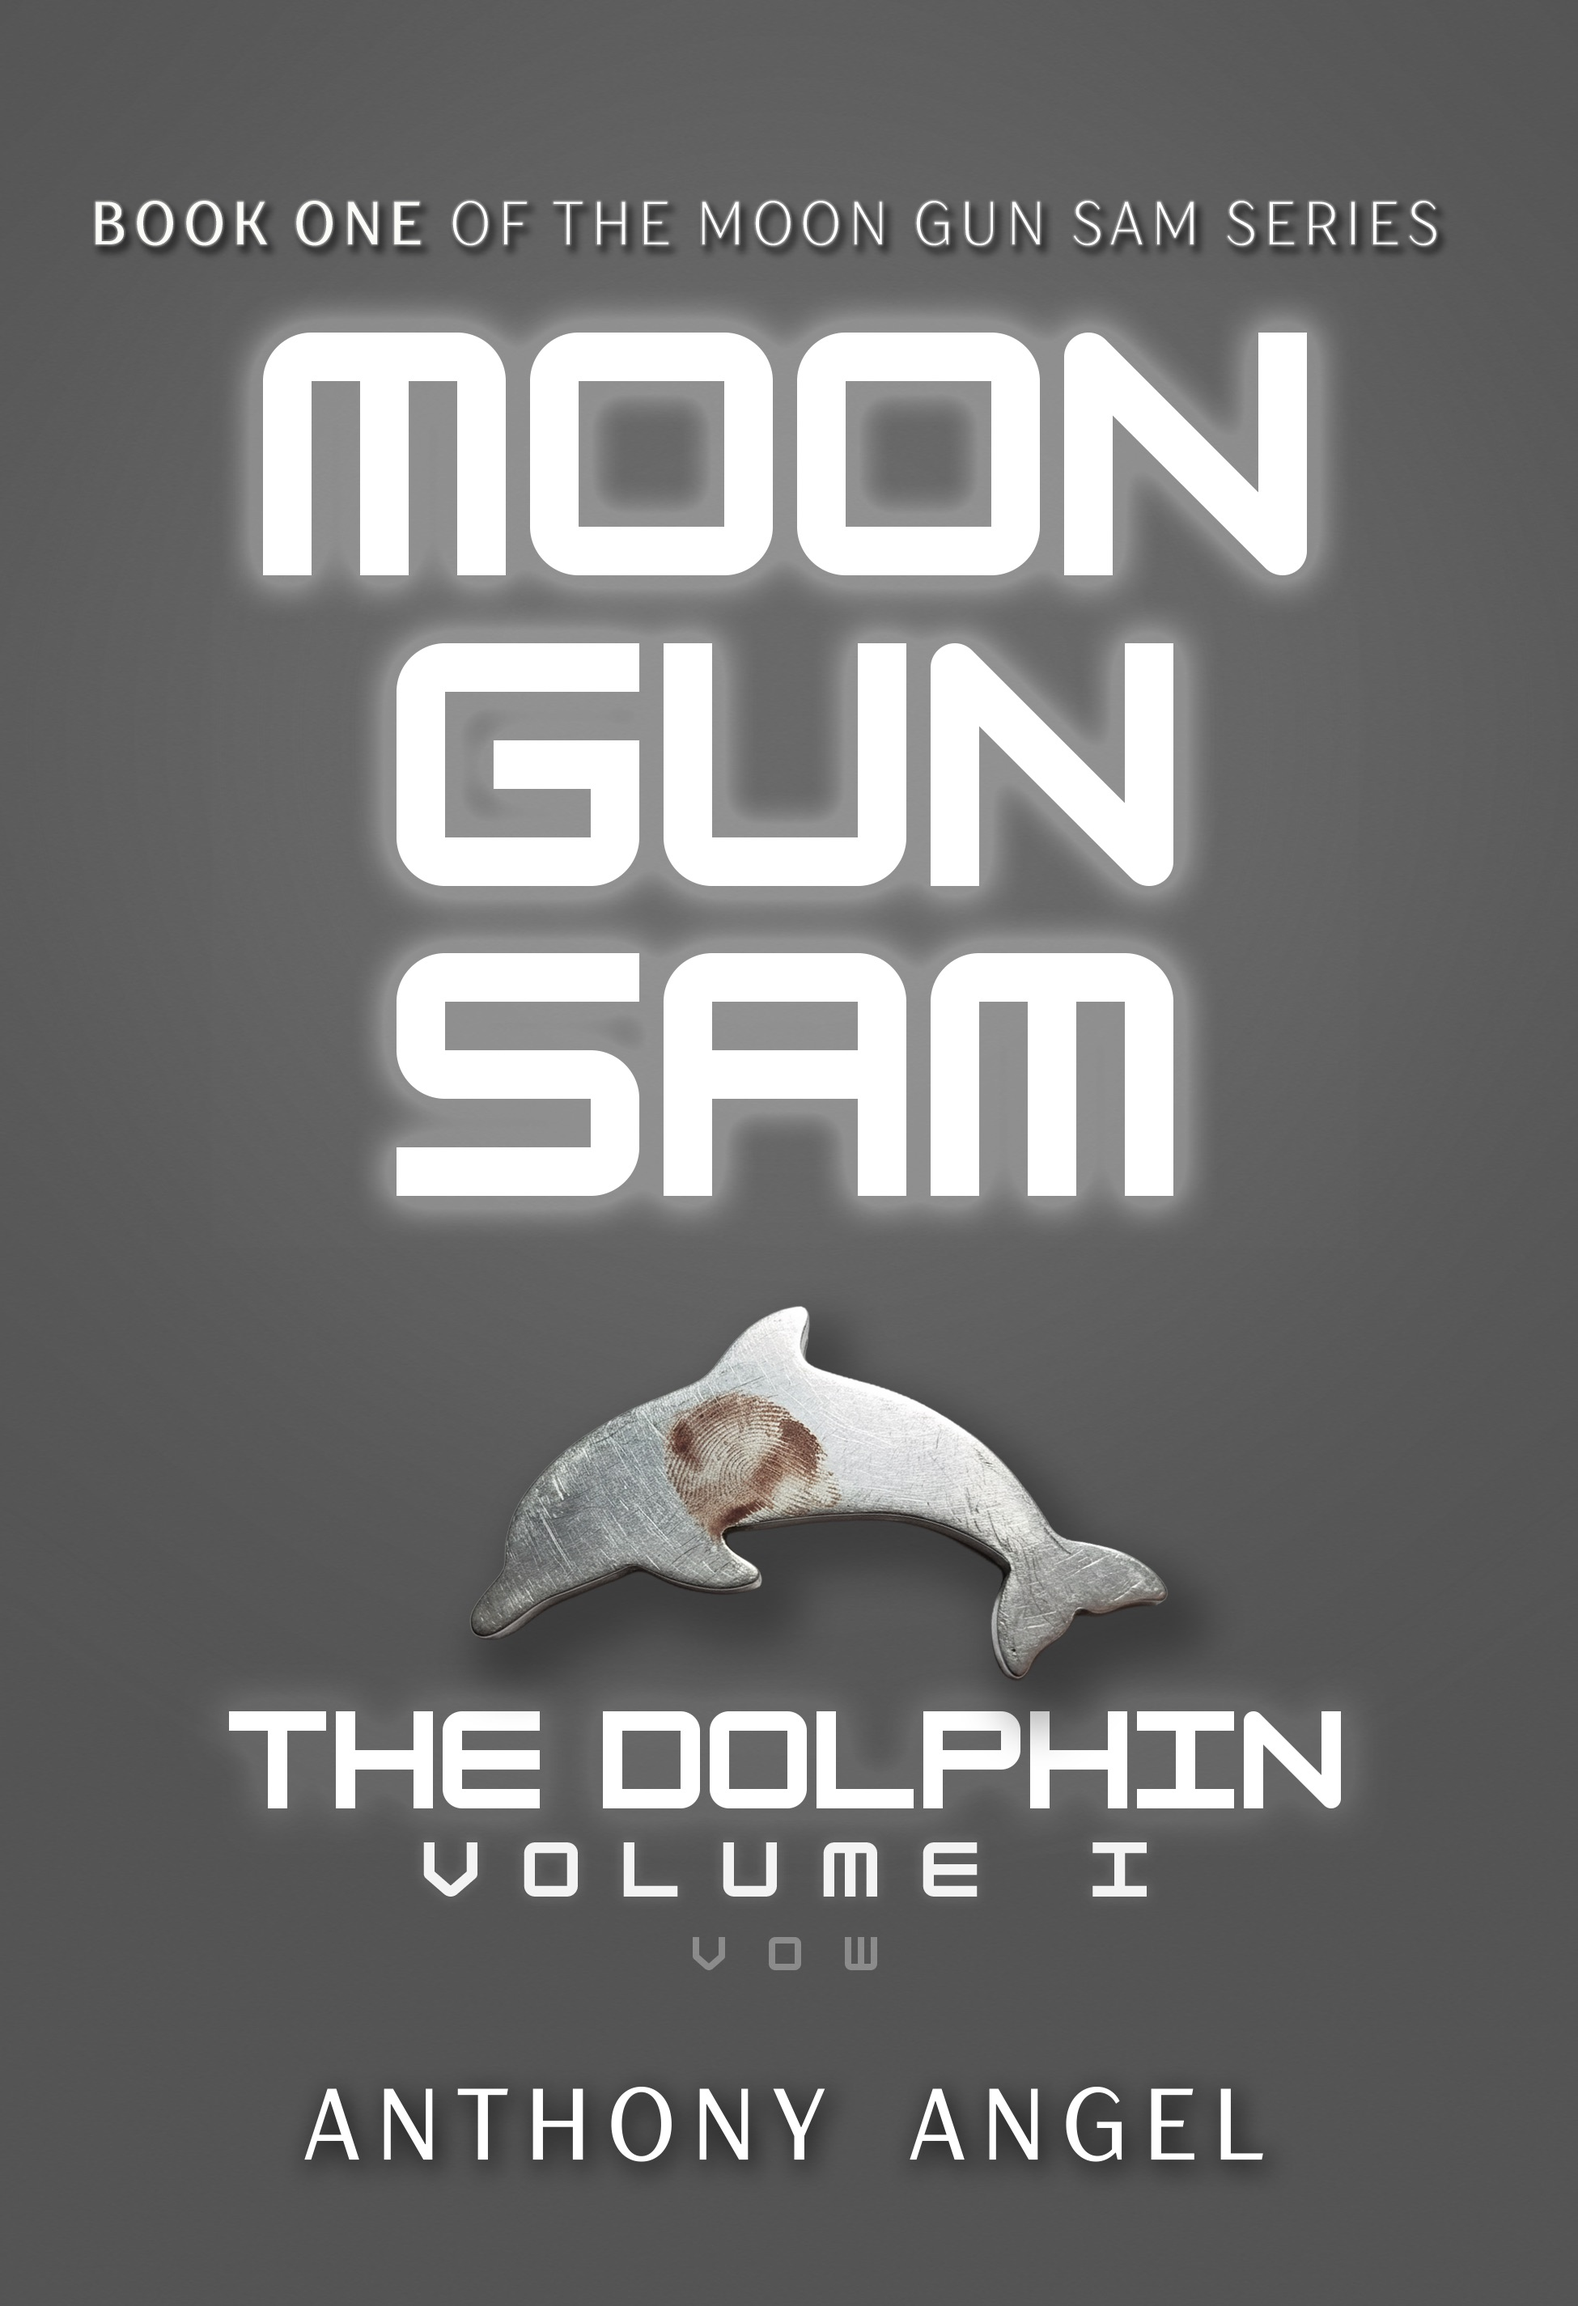
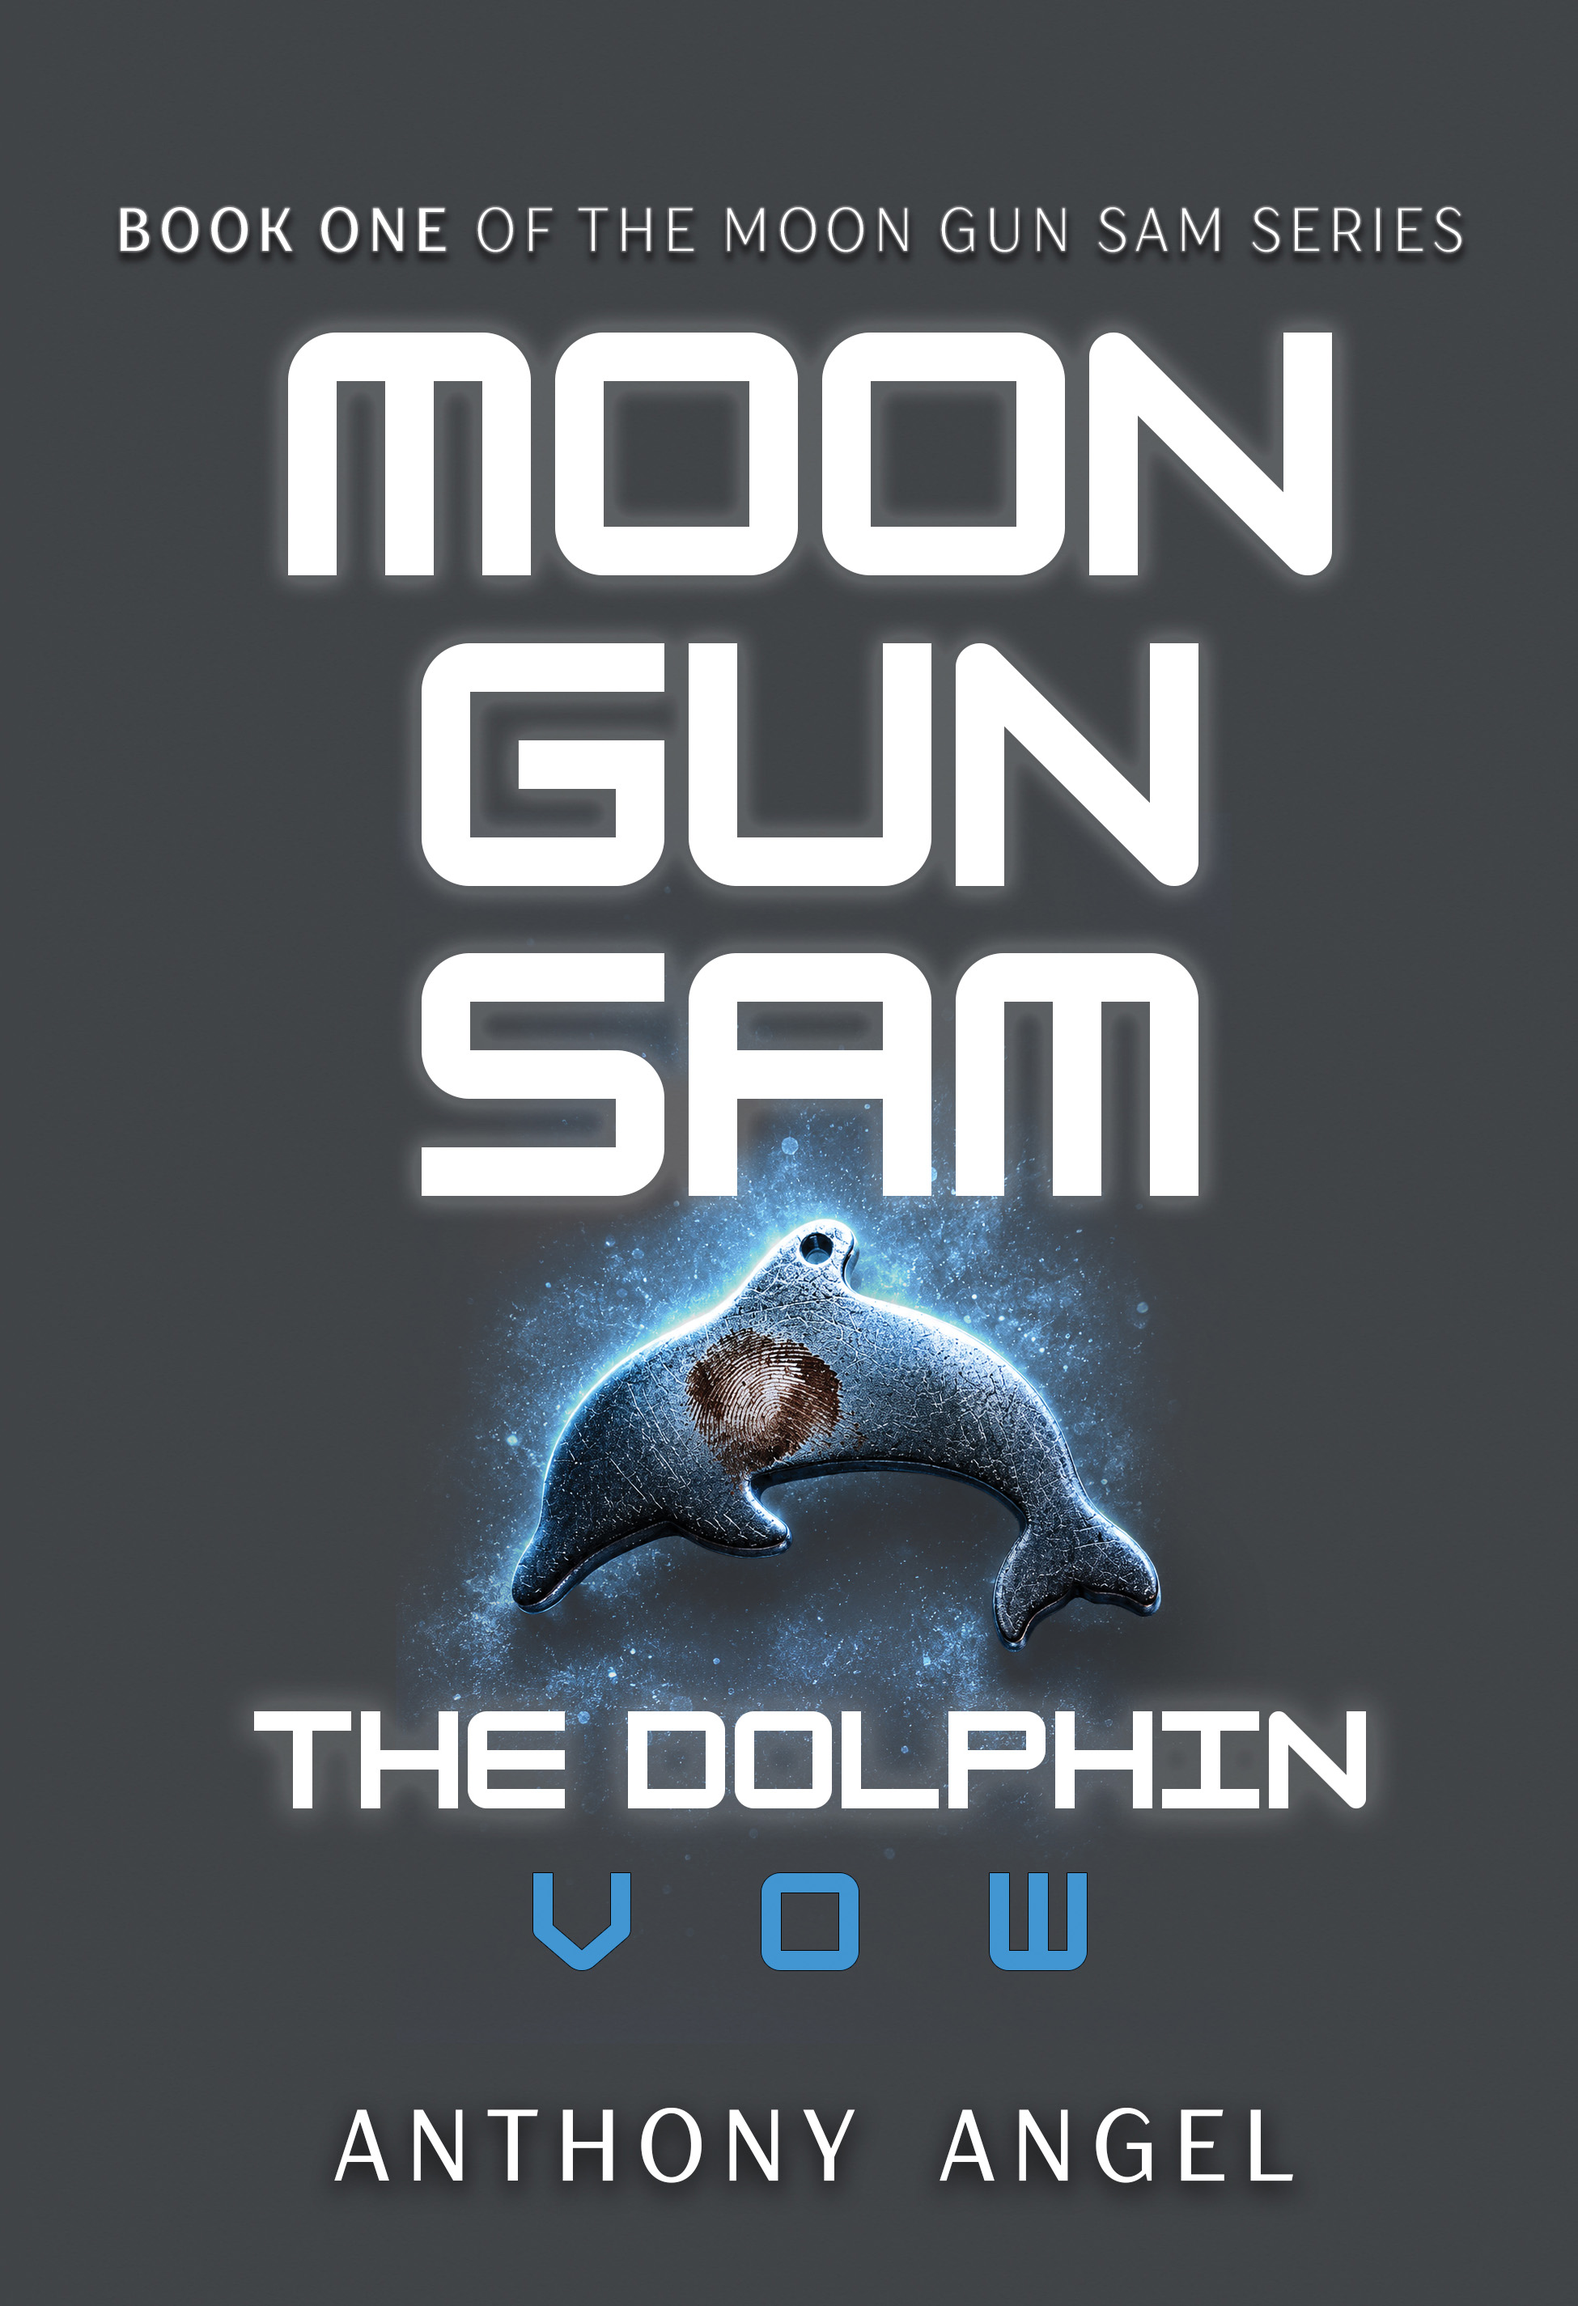
new cover art added and transimssions added for status

diff --git a/index.html b/index.html
@@ -74,6 +74,22 @@
 
   <div class="transmission-list">
 
+    <div class="transmission decode">
+      <span class="transmission-date">05.14.26</span>
+      <span class="transmission-text">Final cover artwork completed for First three books.</span>
+    </div>
+
+    <div class="transmission decode">
+      <span class="transmission-date">05.10.26</span>
+      <span class="transmission-text">Playlist Section completed for Dolphin Vow & Ember.</span>
+    </div>
+
+    <div class="transmission decode">
+      <span class="transmission-date">05.06.26</span>
+      <span class="transmission-text">Copy Edit completed for Dolphin Vow & Ember.</span>
+    </div>
+
+
         <div class="transmission decode">
       <span class="transmission-date">03.01.26</span>
       <span class="transmission-text">The Pod officially opens.</span>
@@ -114,6 +130,7 @@
     <div class="book-grid" aria-label="The Dolphin book covers">
       <img src="images/dolphin1.jpg" alt="Moon Gun Sam: The Dolphin Vow cover" />
       <img src="images/dolphin2.jpg" alt="Moon Gun Sam: The Dolphin Ember cover" />
+      <img src="images/psalms.jpg" alt="Moon Gun Sam: Psalms of Chaos cover" />
     </div>
 
     <p class="books-note">Want the release date? Join the Pod below.</p>
@@ -152,7 +169,7 @@
     </section>
 
     <section class="spoiler-settings" style="margin-top:1rem;">
-      <h3>Theme Music</h3>
+      <h3>Presentation Music</h3>
       <p>Choose the music that plays with the slideshow:</p>
       <div>
         <label class="sr-only" for="musicTrackSelect">Theme music</label>

diff --git a/music-book2.html b/music-book2.html
@@ -603,7 +603,7 @@
         <div class="track-artist">György Ligeti</div>
         <div class="track-links">
           <a class="track-link yt" href="https://youtu.be/ej9RfcTNSKc" target="_blank" rel="noopener">▶ YouTube</a>
-          <a class="track-link sp" href="https://open.spotify.com/track/7B8CUAgtqaQXc5zq0yCcUK" target="_blank" rel="noopener">Spotify</a>
+          <a class="track-link sp" href="https://open.spotify.com/track/7B8CUAgtqaQXc5zq0yCcUK?si=5eee78822733486b" target="_blank" rel="noopener">Spotify</a>
           <a class="track-link ap" href="https://music.apple.com/us/album/lontano-for-large-orchestra/1452211099?i=1452211219" target="_blank" rel="noopener">Apple</a>
         </div>
       </div>
@@ -715,7 +715,7 @@
         <div class="track-name">The Lord's Rough Ways</div>
         <div class="track-artist">Max Richter</div>
         <div class="track-links">
-          <a class="track-link yt" href="https://youtu.be/P6UMj6drVmw" target="_blank" rel="noopener">▶ YouTube</a>
+          <a class="track-link yt" href="https://youtu.be/wXwRnEA9kvM?si=FClfVeyjeFoCq7PB" target="_blank" rel="noopener">▶ YouTube</a>
           <a class="track-link sp" href="https://open.spotify.com/track/0tAiojsHxgtT8wRvTIKTlq" target="_blank" rel="noopener">Spotify</a>
           <a class="track-link ap" href="https://music.apple.com/us/album/the-lords-rough-ways/1440714687?i=1440715255" target="_blank" rel="noopener">Apple</a>
         </div>
